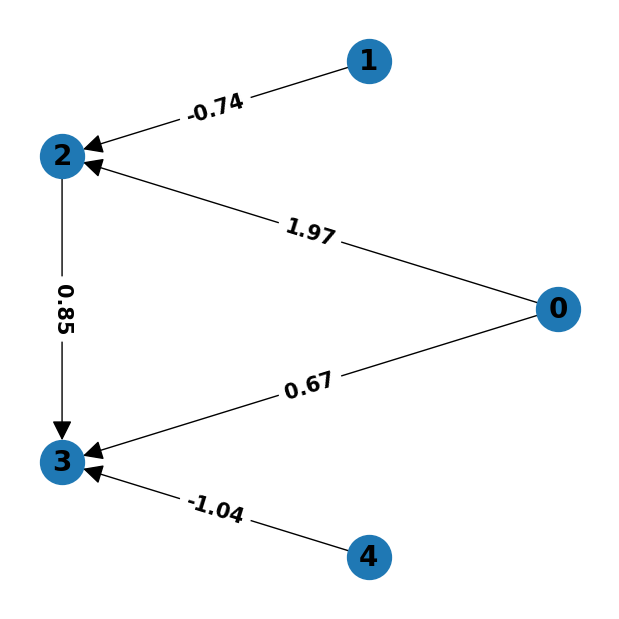
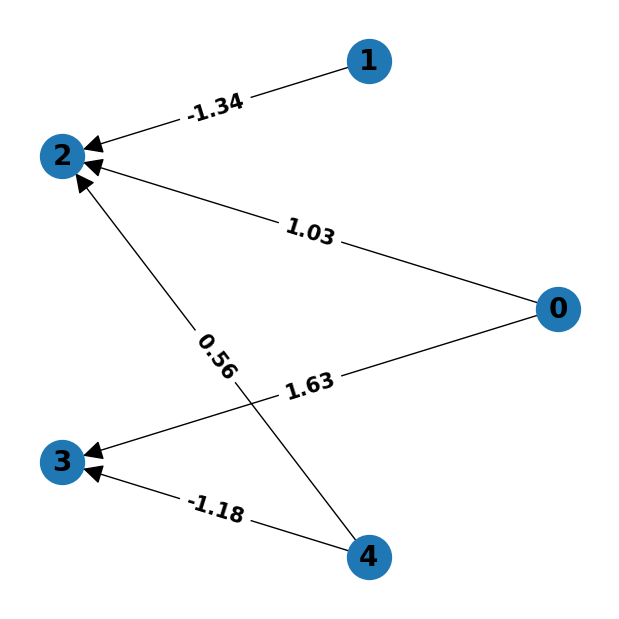
example setup, result

diff --git a/notears/example.py b/notears/example.py
@@ -9,10 +9,10 @@ def set_random_seed(seed):
     random.seed(seed)
     np.random.seed(seed)
 
-set_random_seed(0)
+set_random_seed(10)
 #%%
 '''binary adj matrix of DAG'''
-d, s0, graph_type = 5, 5, 'ER'
+n, d, s0, graph_type = 100, 5, 5, 'ER'
 
 # Erdos-Renyi
 G_und = ig.Graph.Erdos_Renyi(n=d, m=s0)
@@ -41,6 +41,7 @@ for i, (low, high) in enumerate(w_ranges):
     U = np.random.uniform(low=low, high=high, size=B.shape)
     W += B * (S == i) * U
 W = np.round(W, 2)
+np.savetxt('./assets/W_example.csv', W, delimiter=',')
 #%%
 '''visualize weighted adj matrix of DAG'''
 plt.figure(figsize=(6, 6))
@@ -66,4 +67,19 @@ plt.savefig(
 )
 plt.show()
 plt.close()
+#%%
+'''simulate dataset'''
+d = W.shape[0]
+scale_vec = np.ones(d) # noise scale (standard deviation)
+
+G = ig.Graph.Weighted_Adjacency(W.tolist())
+ordered_vertices = G.topological_sorting()
+
+X = np.zeros([n, d])
+for j in ordered_vertices:
+    parents = G.neighbors(j, mode=ig.IN)
+    z = np.random.normal(scale=scale_vec[j], size=n)
+    x = X[:, parents] @ W[parents, j] + z
+    X[:, j] = x
+np.savetxt('./assets/X_example.csv', X, delimiter=',')
 #%%

diff --git a/README.md b/README.md
@@ -3,3 +3,8 @@
 This repository is unofficial implementation of following papers with Tensorflow 2.0. The corresponding folder name is written in parenthesis.
 
 - [DAGs with NO TEARS: Continuous Optimization for Structure Learning](https://proceedings.neurips.cc/paper/2018/file/e347c51419ffb23ca3fd5050202f9c3d-Paper.pdf) (`notears`)
+
+## Reference
+
+- https://github.com/xunzheng/notears
+- 
